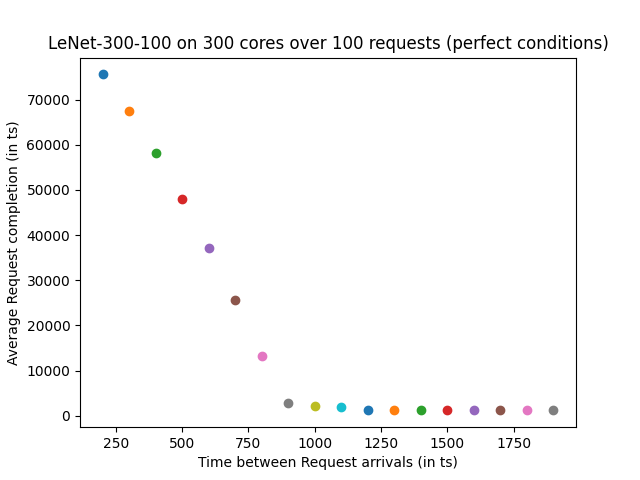
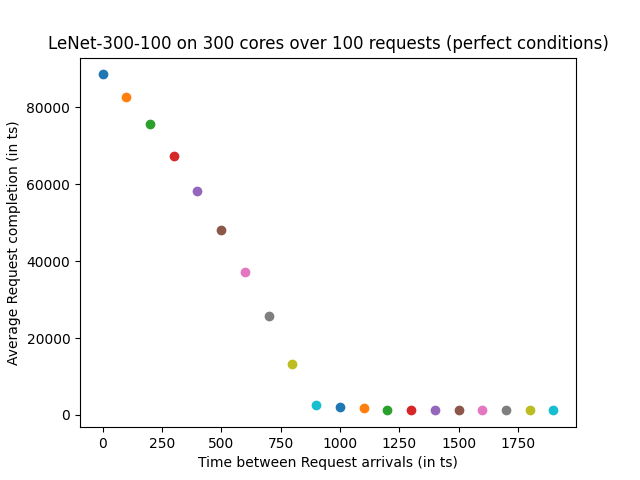
cleanup

diff --git a/lenet_sim.py b/lenet_sim.py
@@ -7,16 +7,16 @@ LENET_LAYERS = [(784, 300), (300, 100), (100, 10)]
 
 class Simulator():
     def __init__(self):
-        self.cores = [Core(i) for i in range(NUM_CORES)]
-        self.next_core = 0
-        self.queue = deque([])
-        self.req_id = 0 # the id that will be assigned to the next Request
-        self.req_start_times = {}
-        self.req_end_times = {}
-        self.reqs_in_progress = set()
-        self.time = 0
-        self.req_layer_progress = {} # maps req_ids to [num_vvps_left, dependent_layers] for requests in progress
-        self.req_times = []
+        self.cores = [Core(i) for i in range(NUM_CORES)]    # cores that the simulator will run on
+        self.next_core = 0                                  # core that follows the last scheduled core (round-robin style)
+        self.queue = deque([])                              # holds all scheduled events
+        self.time = 0                                       # simulator's internal time
+        self.req_id = 0                                     # id that will be assigned to the next Request
+        self.req_start_times = {}                           # maps req_ids to their request's scheduled start times
+        self.req_end_times = {}                             # maps req_ids to latest end times of any VVPs associated with that Request
+        self.reqs_in_progress = set()                       # ids of all requests being processed at current time
+        self.req_layer_progress = {}                        # maps req_ids to [num_vvps_left, dependent_layers] for requests in progress
+        self.req_times = []                                 # completion times of finished requests (at current time)
 
     def schedule_lenet(self, layers, start_t=0):
         '''
@@ -37,16 +37,24 @@ class Simulator():
         self.queue = deque(merge(events, self.queue, key=lambda event:event.start_t)) # added left-handedly to prioritize recents
     
     def update_req_layer_progress(self, req_id):
+        '''
+        Decrements the number of VVPs left to complete a layer in DNN and schedules next layer, if exists,
+        otherwise logs total time the request took to process.
+
+        Parameters
+        ----------
+        req_id: id of the request whose layer we just finished a computation on
+        '''
         num_vvps_left, dependent_layers = self.req_layer_progress[req_id]
         if req_id not in self.req_end_times or self.time > self.req_end_times[req_id]:
-            self.req_end_times[req_id] = self.time # setting to 
+            self.req_end_times[req_id] = self.time # setting endtime to latest endtime of a VVP
         if num_vvps_left == 1:
             if dependent_layers: # when there are still children layers
                 input_size, vvps = dependent_layers[0]
                 next_job = Job(self.time, req_id, vvps, input_size)
                 self.merge_into_queue([next_job])
                 self.req_layer_progress[req_id] = [vvps, dependent_layers[1:].copy()] # to prevent aliasing
-                self.time -= 1 # to keep it at same time on next cycle
+                self.time -= 1 # to keep it at same time on next cycle (so we don't skip the job we just scheduled)
             else: # request done
                 total_req_time = max(self.time, self.req_end_times[req_id]) - self.req_start_times[req_id]
                 self.req_times.append(total_req_time)
@@ -63,7 +71,7 @@ class Simulator():
         average_request_time: average lifetime (in ts) of a request in simulation
         '''
         while self.queue or self.reqs_in_progress:
-            while self.queue and self.queue[0].start_t == self.time:
+            while self.queue and self.queue[0].start_t == self.time: # there is an event that beginning now
                 event = self.queue.popleft()
                 if isinstance(event, Request):
                     self.req_start_times[event.req_id] = self.time
@@ -87,14 +95,32 @@ class Simulator():
 
 class Core():
     def __init__(self, core_id):
-        self.core_id = core_id
-        self.time = 0
-        self.wait_queue = deque([])
-        self.current_task_end_time = None
-        self.current_req_id = None # req_id of task currently being processed
+        self.core_id = core_id              # unique identifier for core
+        self.wait_queue = deque([])         # holds all tasks scheduled to core that haven't started being processed
+        self.current_task_end_time = None   # end time of task currently being processed
+        self.current_req_id = None          # req_id of task currently being processed
     
     def schedule_vvp(self, task):
+        '''
+        Adds a task to the wait_queue of core
+
+        Parameters
+        ----------
+        task: a VVP that wants to be processed on this core
+        '''
         self.wait_queue.append(task)
+
+    def load_new_task(self, sim_time):
+        '''
+        Loads new task of queue
+
+        Parameters
+        ----------
+        sim_time: simulator's time (used to generate end time of task)
+        '''
+        new_vvp = self.wait_queue.popleft()
+        self.current_task_end_time = new_vvp.size + sim_time
+        self.current_req_id = new_vvp.req_id
 
     def time_step(self, sim_time, update_req_layer_progress):
         '''
@@ -105,29 +131,27 @@ class Core():
         sim_time: simulator's time
         update_req_layer_progress: callback that decrements number of tasks left for a request's layer to complete
         '''
-        # print("core #:", self.core_id)
-        # print("time:", sim_time)
-        self.time = sim_time # always inherit time of simulator
+        if not self.current_task_end_time and self.wait_queue: # core is unutilized
+            self.load_new_task(sim_time)
 
-        # print("current_task_end_time",self.current_task_end_time)
-        if not self.current_task_end_time and self.wait_queue:
-            new_vvp = self.wait_queue.popleft()
-            self.current_task_end_time = new_vvp.size + self.time
-            self.current_req_id = new_vvp.req_id
-
-        if self.time == self.current_task_end_time:
+        if sim_time == self.current_task_end_time:
             update_req_layer_progress(self.current_req_id) # signal that the task has been complete
             if self.wait_queue:
-                # load new task off queue
-                new_vvp = self.wait_queue.popleft()
-                self.current_task_end_time = new_vvp.size + self.time
-                self.current_req_id = new_vvp.req_id
+                self.load_new_task(sim_time)
             else:
+                # marks itself as unutilized
                 self.current_task_end_time = None
                 self.current_req_id = None
 
 
 def schedule_lenet_requests(simulator, num_reqs, interarrival_space):
+    '''
+    Parameters
+    ----------
+    simulator: Simulator object we are scheduling requests onto
+    num_reqs: number of requests to schedule
+    interarrival_space: length of time (in ts) to stagger each request
+    '''
     for req_id in range(num_reqs):
         simulator.schedule_lenet(LENET_LAYERS, req_id * interarrival_space)
 

diff --git a/lenet_plot.py b/lenet_plot.py
@@ -3,7 +3,7 @@ import matplotlib.pyplot as plt
 from tqdm import tqdm
 
 num_reqs = 100 # number of back-to-back lenet computations
-for interarrival_space in tqdm(range(200, 2000, 100)):
+for interarrival_space in tqdm(range(0, 2000, 100)):
     simulator = Simulator()
     schedule_lenet_requests(simulator, 100, interarrival_space)
     average_job_time = simulator.simulate()
@@ -13,4 +13,6 @@ for interarrival_space in tqdm(range(200, 2000, 100)):
 plt.xlabel('Time between Request arrivals (in ts)')
 plt.ylabel('Average Request completion (in ts)')
 plt.title('LeNet-300-100 on 300 cores over 100 requests (perfect conditions)')
-plt.savefig("sim_plots/avg_req_completion_vs_interarrival_perfect_conditions.png")
+out_filepath = "sim_plots/avg_req_completion_vs_interarrival_perfect_conditions.png"
+plt.savefig(out_filepath)
+print(f"Output accessible in {out_filepath}")

diff --git a/README.md b/README.md
@@ -3,9 +3,9 @@
 ## Overview
 Event-driven simulation occurs in two phases:
 
-1. Scheduling requests. For example, schedule_lenet_requests() does this by scheduling a particular number of requests with an even "interarrival" time between each's initiation.
+1. Scheduling requests. For example, `schedule_lenet_requests()` does this by scheduling a particular number of requests with an even "interarrival" time between each's initiation.
 
-2. Simulating the schedule. Simulator.simulate() will act out the requests at their specified times and return their average completion time.
+2. Simulating the schedule. `Simulator.simulate()` will act out the requests at their specified times and return their average completion time.
 
 ## Usage
 Run ```python3 lenet_plot.py``` to generate plot of average request completion times over different interarrivals lengths.
